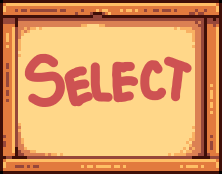
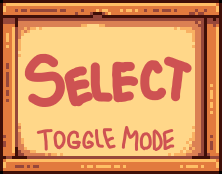
JUNE 16 save
- in the midst of adding stats and the interface for it

- small update to the toggle button so it is more obvious to the user what to do

Changed region(s): [[0.1622, 0.7184, 0.7838, 0.8621]]

diff --git a/scripts/entities.py b/scripts/entities.py
@@ -95,14 +95,15 @@ class Timer:
 
 
 class Chicken(PhysicsEntity):
-    def __init__(self, game, pos, size, fertile=False):
+    def __init__(self, game, pos, size, fertile=False, genetics=False):
         super().__init__(game, 'chicken', pos, size)
         self.timer = Timer(game, (pos[0] - 2, pos[1] - 2),
                            game.assets['timer'], (20, 20))
         self.fertile = fertile
         self.hunger_bar = HungerBar(game, (pos[0] - 2, pos[1] - 2),
                                     game.assets['hunger'], (20, 20))
-        self.level = 1
+        self.egg_quality = 1
+        self.pass_genetics = genetics
 
     def update(self, movement=(0, 0)):
         if movement[0] != 0:
@@ -138,7 +139,7 @@ class Chicken(PhysicsEntity):
 
     def lay_egg(self):
         self.game.eggs.append(Egg(self.game, '0', self.pos, (16, 16),
-                                  self.game.assets['egg/0']))
+                                  self.game.assets['egg/0'], self.egg_quality))
         loc = (int((self.pos[0]) // self.game.tilemap.tile_size),
                int((self.pos[1]) // self.game.tilemap.tile_size))
         loc = str(loc[0]) + ';' + str(loc[1])
@@ -197,13 +198,14 @@ class Rooster(PhysicsEntity):
 
 
 class Egg:
-    def __init__(self, game, e_type, pos, size, img):
+    def __init__(self, game, e_type, pos, size, img, level):
         self.game = game
         self.type = e_type
         self.pos = list(pos)
         self.size = size
         self.img = img
         self.timer = Timer(game, (pos[0] - 2, pos[1] - 2), game.assets['timer'], (20, 20))
+        self.level = level
 
     def render(self, surface):
         surface.blit(self.img, self.pos)
@@ -224,4 +226,4 @@ class Egg:
         self.game.eggs.remove(self)
         loc = str(loc[0]) + ';' + str(loc[1])
         self.game.tilemap.tilemap[loc]['has_egg'] = 0
-        self.game.money += 6
+        self.game.money += 3 * (2 ** self.level)

diff --git a/main.py b/main.py
@@ -91,6 +91,7 @@ class Game:
 
         self.selected_entities = []
         self.select_pos = None
+        self.current_selection = None
 
         self.movement = [False, False, False, False]
 
@@ -341,7 +342,8 @@ class Game:
                     if self.selection_box.entities and self.select_pos:
                         for button in self.selection_box.buttons:
                             if button.is_within_onscreen(actual_mouse_pos):
-                                self.selection_box.get_button_entity(button.index)
+                                self.current_selection = self.selection_box.get_button_entity(button.index)
+                                break
                     if next_turn.is_within(actual_mouse_pos):
                         time_to_move = True
                         for egg in self.eggs:

diff --git a/scripts/ui.py b/scripts/ui.py
@@ -77,7 +77,6 @@ class SelectionBox:
         self.entities.append(entity)
 
     def get_button_entity(self, index):
-        print('selected' + self.entities[index].type)
         return self.entities[index]
 
     def clear_entities(self):
